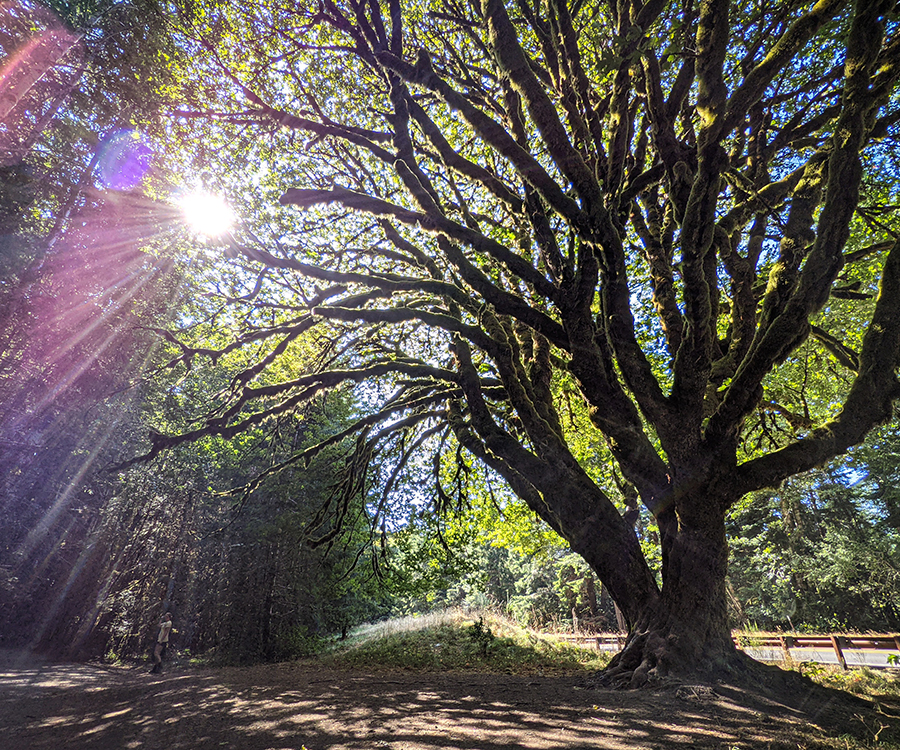
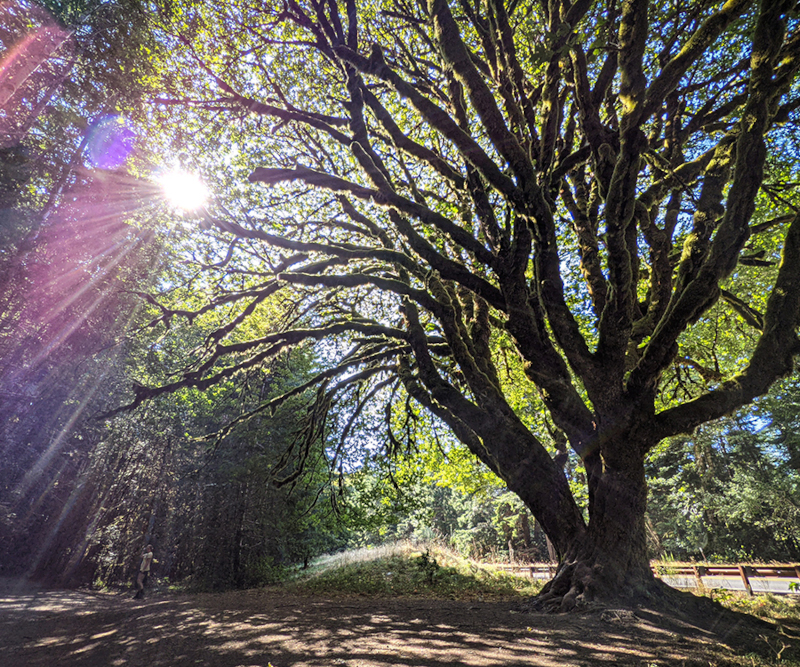
image optimization

Changed region(s): [[0.7188, 0.4498, 0.75, 0.4798]]

diff --git a/photography/index.html b/photography/index.html
@@ -37,7 +37,7 @@
             <div class="photos grid grid-cols-2 gap-2 lg:grid-cols-4">
 
                     <div class="photo action">
-                        <img src="/images/gallery/large/00.png" title="rappelling Stephen's Gap cave" class="small-img rounded-lg color-scroll transition duration-900 aspect-square object-cover">
+                        <img src="/images/gallery/small/00.png" title="rappelling Stephen's Gap cave" class="small-img rounded-lg color-scroll transition duration-900 aspect-square object-cover">
                         <div class="big-img fixed size-full left-0 top-0 z-40 backdrop-blur-sm hidden">
                             <div class="mt-28 px-4">
                                 <img src="/images/gallery/large/00.png" title="rappelling Stephen's Gap cave - large resolution" class="shadow-lg border-4 border-solid max-h-130 mx-auto">
@@ -47,7 +47,7 @@
                     </div>
 
                     <div class="photo wildlife">
-                        <img src="/images/gallery/large/02.jpg" title="A captive coati in Panama" class="small-img rounded-lg color-scroll transition duration-900 aspect-square object-cover">
+                        <img src="/images/gallery/small/02.jpg" title="A captive coati in Panama" class="small-img rounded-lg color-scroll transition duration-900 aspect-square object-cover">
                         <div class="big-img fixed size-full left-0 top-0 z-40 -ml-4 backdrop-blur-sm hidden">
                             <div class="mt-28 px-4">
                                 <img src="/images/gallery/large/02.jpg" title="A captive coati in Panama - large resolution" class="shadow-lg border-4 border-solid max-h-130 mx-auto">
@@ -57,7 +57,7 @@
                     </div>
 
                     <div class="photo landscape">
-                        <img src="/images/gallery/large/01.jpg" title="Flowers on Acatenango with volcan fuego in the background" class="small-img rounded-lg color-scroll transition duration-900 aspect-square object-cover">
+                        <img src="/images/gallery/small/01.jpg" title="Flowers on Acatenango with volcan fuego in the background" class="small-img rounded-lg color-scroll transition duration-900 aspect-square object-cover">
                         <div class="big-img fixed size-full left-0 top-0 z-40 -ml-4 backdrop-blur-sm hidden">
                             <div class="mt-28 px-4">
                                 <img src="/images/gallery/large/01.jpg" title="Flowers on Acatenango with volcan fuego in the background - large resolution" class="shadow-lg border-4 border-solid max-h-130 mx-auto">
@@ -67,7 +67,7 @@
                     </div>
 
                     <div class="photo landscape">
-                        <img src="/images/gallery/large/07.png" title="Storm clouds on the horizon from South Sixshooter, Utah" class="small-img rounded-lg color-scroll transition duration-900 aspect-square object-cover">
+                        <img src="/images/gallery/small/07.png" title="Storm clouds on the horizon from South Sixshooter, Utah" class="small-img rounded-lg color-scroll transition duration-900 aspect-square object-cover">
                         <div class="big-img fixed size-full left-0 top-0 z-40 -ml-4 backdrop-blur-sm hidden">
                             <div class="mt-28 px-4">
                                 <img src="/images/gallery/large/07.png" title="Storm clouds on the horizon from South Sixshooter, Utah" class="shadow-lg border-4 border-solid max-h-130 mx-auto">
@@ -77,7 +77,7 @@
                     </div>
                     
                     <div class="photo blackandwhite">
-                        <img src="/images/gallery/large/08.png" title="Intense shadows on a model's back" class="small-img rounded-lg color-scroll transition duration-900 aspect-square object-cover">
+                        <img src="/images/gallery/small/08.png" title="Intense shadows on a model's back" class="small-img rounded-lg color-scroll transition duration-900 aspect-square object-cover">
                         <div class="big-img fixed size-full left-0 top-0 z-40 -ml-4 backdrop-blur-sm hidden">
                             <div class="mt-28 px-4">
                                 <img src="/images/gallery/large/08.png" title="Intense shadows on a model's back" class="shadow-lg border-4 border-solid max-h-130 mx-auto">
@@ -87,7 +87,7 @@
                     </div>
 
                     <div class="photo action">
-                        <img src="/images/gallery/large/09.png" title="Aerialist in a wrap on a windy day" class="small-img rounded-lg color-scroll transition duration-900 aspect-square object-cover">
+                        <img src="/images/gallery/small/09.png" title="Aerialist in a wrap on a windy day" class="small-img rounded-lg color-scroll transition duration-900 aspect-square object-cover">
                         <div class="big-img fixed size-full left-0 top-0 z-40 -ml-4 backdrop-blur-sm hidden">
                             <div class="mt-28 px-4">
                                 <img src="/images/gallery/large/09.png" title="Aerialist in a wrap on a windy day" class="shadow-lg border-4 border-solid max-h-130 mx-auto">
@@ -97,7 +97,7 @@
                     </div>
 
                     <div class="photo color">
-                        <img src="/images/gallery/large/10.png" title="Danbo peering out at the world" class="small-img rounded-lg color-scroll transition duration-900 aspect-square object-cover">
+                        <img src="/images/gallery/small/10.png" title="Danbo peering out at the world" class="small-img rounded-lg color-scroll transition duration-900 aspect-square object-cover">
                         <div class="big-img fixed size-full left-0 top-0 z-40 -ml-4 backdrop-blur-sm hidden">
                             <div class="mt-28 px-4">
                                 <img src="/images/gallery/large/10.png" title="Danbo peering out at the world" class="shadow-lg border-4 border-solid max-h-130 mx-auto">
@@ -107,7 +107,7 @@
                     </div>
 
                     <div class="photo action">
-                        <img src="/images/gallery/large/28.jpg" title="A cave in West Virginia" class="small-img rounded-lg color-scroll transition duration-900 aspect-square object-cover">
+                        <img src="/images/gallery/small/28.jpg" title="A cave in West Virginia" class="small-img rounded-lg color-scroll transition duration-900 aspect-square object-cover">
                         <div class="big-img fixed size-full left-0 top-0 z-40 -ml-4 backdrop-blur-sm hidden">
                             <div class="mt-28 px-4">
                                 <img src="/images/gallery/large/28.jpg" title="A cave in West Virginia" class="shadow-lg border-4 border-solid max-h-130 mx-auto">
@@ -119,7 +119,7 @@
 
 
                     <div class="photo landscape">
-                        <img src="/images/gallery/large/03.png" title="The view down the valley from the top of 13-bolt wall, Colorado" class="small-img rounded-lg color-scroll transition duration-900 aspect-square object-cover">
+                        <img src="/images/gallery/small/03.png" title="The view down the valley from the top of 13-bolt wall, Colorado" class="small-img rounded-lg color-scroll transition duration-900 aspect-square object-cover">
                         <div class="big-img fixed size-full left-0 top-0 z-40 -ml-4 backdrop-blur-sm hidden">
                             <div class="mt-28 px-4">
                                 <img src="/images/gallery/large/03.png" title="The view down the valley from the top of 13-bolt wall, Colorado" class="shadow-lg border-4 border-solid max-h-130 mx-auto">
@@ -129,7 +129,7 @@
                     </div>
 
                     <div class="photo landscape">
-                        <img src="/images/gallery/large/04.jpg" title="Sunset view from the top of the Pao de Acucar, Rio de Janeiro, Brazil" class="small-img rounded-lg color-scroll transition duration-900 aspect-square object-cover">
+                        <img src="/images/gallery/small/04.jpg" title="Sunset view from the top of the Pao de Acucar, Rio de Janeiro, Brazil" class="small-img rounded-lg color-scroll transition duration-900 aspect-square object-cover">
                         <div class="big-img fixed size-full left-0 top-0 z-40 -ml-4 backdrop-blur-sm hidden">
                             <div class="mt-28 px-4">
                                 <img src="/images/gallery/large/04.jpg" title="Sunset view from the top of the Pao de Acucar, Rio de Janeiro, Brazil" class="shadow-lg border-4 border-solid max-h-130 mx-auto">
@@ -139,7 +139,7 @@
                     </div>
 
                     <div class="photo landscape">
-                        <img src="/images/gallery/large/18.jpg" title="Waterfall in Washington" class="small-img rounded-lg color-scroll transition duration-900 aspect-square object-cover">
+                        <img src="/images/gallery/small/18.jpg" title="Waterfall in Washington" class="small-img rounded-lg color-scroll transition duration-900 aspect-square object-cover">
                         <div class="big-img fixed size-full left-0 top-0 z-40 -ml-4 backdrop-blur-sm hidden">
                             <div class="mt-28 px-4">
                                 <img src="/images/gallery/large/18.jpg" title="Waterfall in Washington" class="shadow-lg border-4 border-solid max-h-130 mx-auto">
@@ -149,7 +149,7 @@
                     </div>
 
                     <div class="photo landscape">
-                        <img src="/images/gallery/large/05.jpg" title="Shagg lake, Maine" class="small-img rounded-lg color-scroll transition duration-900 aspect-square object-cover">
+                        <img src="/images/gallery/small/05.jpg" title="Shagg lake, Maine" class="small-img rounded-lg color-scroll transition duration-900 aspect-square object-cover">
                         <div class="big-img fixed size-full left-0 top-0 z-40 -ml-4 backdrop-blur-sm hidden">
                             <div class="mt-28 px-4">
                                 <img src="/images/gallery/large/05.jpg" title="Shagg lake, Maine" class="shadow-lg border-4 border-solid max-h-130 mx-auto">
@@ -159,7 +159,7 @@
                     </div>
 
                     <div class="photo landscape">
-                        <img src="/images/gallery/large/17.jpg" title="Looking South on the way up Atigun Pass, Alaska" class="small-img rounded-lg color-scroll transition duration-900 aspect-square object-cover">
+                        <img src="/images/gallery/small/17.jpg" title="Looking South on the way up Atigun Pass, Alaska" class="small-img rounded-lg color-scroll transition duration-900 aspect-square object-cover">
                         <div class="big-img fixed size-full left-0 top-0 z-40 -ml-4 backdrop-blur-sm hidden">
                             <div class="mt-28 px-4">
                                 <img src="/images/gallery/large/17.jpg" title="Looking South on the way up Atigun Pass, Alaska" class="shadow-lg border-4 border-solid max-h-130 mx-auto">
@@ -169,7 +169,7 @@
                     </div>
 
                     <div class="photo color">
-                        <img src="/images/gallery/large/19.jpg" title="Giant tree in Washington" class="small-img rounded-lg color-scroll transition duration-900 aspect-square object-cover">
+                        <img src="/images/gallery/small/19.jpg" title="Giant tree in Washington" class="small-img rounded-lg color-scroll transition duration-900 aspect-square object-cover">
                         <div class="big-img fixed size-full left-0 top-0 z-40 -ml-4 backdrop-blur-sm hidden">
                             <div class="mt-28 px-4">
                                 <img src="/images/gallery/large/19.jpg" title="Giant tree in Washington" class="shadow-lg border-4 border-solid max-h-130 mx-auto">
@@ -179,7 +179,7 @@
                     </div>
 
                     <div class="photo wildlife">
-                        <img src="/images/gallery/large/20.jpg" title="Jaguar in Belize" class="small-img rounded-lg color-scroll transition duration-900 aspect-square object-cover">
+                        <img src="/images/gallery/small/20.jpg" title="Jaguar in Belize" class="small-img rounded-lg color-scroll transition duration-900 aspect-square object-cover">
                         <div class="big-img fixed size-full left-0 top-0 z-40 -ml-4 backdrop-blur-sm hidden">
                             <div class="mt-28 px-4">
                                 <img src="/images/gallery/large/20.jpg" title="Jaguar in Belize" class="shadow-lg border-4 border-solid max-h-130 mx-auto">
@@ -191,7 +191,7 @@
 
 
                     <div class="photo color">
-                        <img src="/images/gallery/large/12.png" title="Mooshroom among moss looking towards a window" class="small-img rounded-lg color-scroll transition duration-900 aspect-square object-cover">
+                        <img src="/images/gallery/small/12.png" title="Mooshroom among moss looking towards a window" class="small-img rounded-lg color-scroll transition duration-900 aspect-square object-cover">
                         <div class="big-img fixed size-full left-0 top-0 z-40 -ml-4 backdrop-blur-sm hidden">
                             <div class="mt-28 px-4">
                                 <img src="/images/gallery/large/12.png" title="Mooshroom among moss looking towards a window" class="shadow-lg border-4 border-solid max-h-130 mx-auto">
@@ -201,7 +201,7 @@
                     </div>
 
                     <div class="photo color">
-                        <img src="/images/gallery/large/13.png" title="Three stones with reflection" class="small-img rounded-lg color-scroll transition duration-900 aspect-square object-cover">
+                        <img src="/images/gallery/small/13.png" title="Three stones with reflection" class="small-img rounded-lg color-scroll transition duration-900 aspect-square object-cover">
                         <div class="big-img fixed size-full left-0 top-0 z-40 -ml-4 backdrop-blur-sm hidden">
                             <div class="mt-28 px-4">
                                 <img src="/images/gallery/large/13.png" title="Three stones with reflection" class="shadow-lg border-4 border-solid max-h-130 mx-auto">
@@ -211,7 +211,7 @@
                     </div>
 
                     <div class="photo blackandwhite">
-                        <img src="/images/gallery/large/11.png" title="Japanese tea house at Duke Gardens, North Carolina" class="small-img rounded-lg color-scroll transition duration-900 aspect-square object-cover">
+                        <img src="/images/gallery/small/11.png" title="Japanese tea house at Duke Gardens, North Carolina" class="small-img rounded-lg color-scroll transition duration-900 aspect-square object-cover">
                         <div class="big-img fixed size-full left-0 top-0 z-40 -ml-4 backdrop-blur-sm hidden">
                             <div class="mt-28 px-4">
                                 <img src="/images/gallery/large/11.png" title="Japanese tea house at Duke Gardens, North Carolina" class="shadow-lg border-4 border-solid max-h-130 mx-auto">
@@ -221,7 +221,7 @@
                     </div>
 
                     <div class="photo color">
-                        <img src="/images/gallery/large/14.png" title="Durham central bus station with tiltshift" class="small-img rounded-lg color-scroll transition duration-900 aspect-square object-cover">
+                        <img src="/images/gallery/small/14.png" title="Durham central bus station with tiltshift" class="small-img rounded-lg color-scroll transition duration-900 aspect-square object-cover">
                         <div class="big-img fixed size-full left-0 top-0 z-40 -ml-4 backdrop-blur-sm hidden">
                             <div class="mt-28 px-4">
                                 <img src="/images/gallery/large/14.png" title="Durham central bus station with tiltshift" class="shadow-lg border-4 border-solid max-h-130 mx-auto">
@@ -231,7 +231,7 @@
                     </div>
 
                     <div class="photo landscape">
-                        <img src="/images/gallery/large/15.png" title="Teer quarry at sunrise" class="small-img rounded-lg color-scroll transition duration-900 aspect-square object-cover">
+                        <img src="/images/gallery/small/15.png" title="Teer quarry at sunrise" class="small-img rounded-lg color-scroll transition duration-900 aspect-square object-cover">
                         <div class="big-img fixed size-full left-0 top-0 z-40 -ml-4 backdrop-blur-sm hidden">
                             <div class="mt-28 px-4">
                                 <img src="/images/gallery/large/15.png" title="Teer quarry at sunrise" class="shadow-lg border-4 border-solid max-h-130 mx-auto">
@@ -241,7 +241,7 @@
                     </div>
 
                     <div class="photo color">
-                        <img src="/images/gallery/large/16.jpg" title="Appropriately placed Milk graffiti" class="small-img rounded-lg color-scroll transition duration-900 aspect-square object-cover">
+                        <img src="/images/gallery/small/16.jpg" title="Appropriately placed Milk graffiti" class="small-img rounded-lg color-scroll transition duration-900 aspect-square object-cover">
                         <div class="big-img fixed size-full left-0 top-0 z-40 -ml-4 backdrop-blur-sm hidden">
                             <div class="mt-28 px-4">
                                 <img src="/images/gallery/large/16.jpg" title="Appropriately placed Milk graffiti" class="shadow-lg border-4 border-solid max-h-130 mx-auto">
@@ -251,7 +251,7 @@
                     </div>
 
                     <div class="photo wildlife">
-                        <img src="/images/gallery/large/27.jpg" title="Relaxing in the Norwegian wilderness" class="small-img rounded-lg color-scroll transition duration-900 aspect-square object-cover">
+                        <img src="/images/gallery/small/27.jpg" title="Relaxing in the Norwegian wilderness" class="small-img rounded-lg color-scroll transition duration-900 aspect-square object-cover">
                         <div class="big-img fixed size-full left-0 top-0 z-40 -ml-4 backdrop-blur-sm hidden">
                             <div class="mt-28 px-4">
                                 <img src="/images/gallery/large/27.jpg" title="Relaxing in the Norwegian wilderness" class="shadow-lg border-4 border-solid max-h-130 mx-auto">
@@ -263,7 +263,7 @@
 
 
                     <div class="photo action">
-                        <img src="/images/gallery/large/21.jpg" title="An eruption on Volcan Fuego" class="small-img rounded-lg color-scroll transition duration-900 aspect-square object-cover">
+                        <img src="/images/gallery/small/21.jpg" title="An eruption on Volcan Fuego" class="small-img rounded-lg color-scroll transition duration-900 aspect-square object-cover">
                         <div class="big-img fixed size-full left-0 top-0 z-40 -ml-4 backdrop-blur-sm hidden">
                             <div class="mt-28 px-4">
                                 <img src="/images/gallery/large/21.jpg" title="An erption on Volcan Fuego" class="shadow-lg border-4 border-solid max-h-130 mx-auto">
@@ -273,7 +273,7 @@
                     </div>
 
                     <div class="photo color">
-                        <img src="/images/gallery/large/22.jpg" title="Waterfall in Cloudbridge Reserve, Costa Rica" class="small-img rounded-lg color-scroll transition duration-900 aspect-square object-cover">
+                        <img src="/images/gallery/small/22.jpg" title="Waterfall in Cloudbridge Reserve, Costa Rica" class="small-img rounded-lg color-scroll transition duration-900 aspect-square object-cover">
                         <div class="big-img fixed size-full left-0 top-0 z-40 -ml-4 backdrop-blur-sm hidden">
                             <div class="mt-28 px-4">
                                 <img src="/images/gallery/large/22.jpg" title="Waterfall in Cloudbridge Reserve, Costa Rica" class="shadow-lg border-4 border-solid max-h-130 mx-auto">
@@ -283,7 +283,7 @@
                     </div>
 
                     <div class="photo action">
-                        <img src="/images/gallery/large/23.jpg" title="A swing in the jungle in Panama" class="small-img rounded-lg color-scroll transition duration-900 aspect-square object-cover">
+                        <img src="/images/gallery/small/23.jpg" title="A swing in the jungle in Panama" class="small-img rounded-lg color-scroll transition duration-900 aspect-square object-cover">
                         <div class="big-img fixed size-full left-0 top-0 z-40 -ml-4 backdrop-blur-sm hidden">
                             <div class="mt-28 px-4">
                                 <img src="/images/gallery/large/23.jpg" title="A swing in the jungle in Panama" class="shadow-lg border-4 border-solid max-h-130 mx-auto">
@@ -293,7 +293,7 @@
                     </div>
 
                     <div class="photo color">
-                        <img src="/images/gallery/large/24.jpg" title="A basic hotel on an island village on the coast of Panama, San Blas Islands" class="small-img rounded-lg color-scroll transition duration-900 aspect-square object-cover">
+                        <img src="/images/gallery/small/24.jpg" title="A basic hotel on an island village on the coast of Panama, San Blas Islands" class="small-img rounded-lg color-scroll transition duration-900 aspect-square object-cover">
                         <div class="big-img fixed size-full left-0 top-0 z-40 -ml-4 backdrop-blur-sm hidden">
                             <div class="mt-28 px-4">
                                 <img src="/images/gallery/large/24.jpg" title="A basic hotel on an island village on the coast of Panama, San Blas Islands" class="shadow-lg border-4 border-solid max-h-130 mx-auto">
@@ -303,7 +303,7 @@
                     </div>
 
                     <div class="photo landscape">
-                        <img src="/images/gallery/large/25.jpg" title="Rocky beach in northern Colombia, near the Darien Gap" class="small-img rounded-lg color-scroll transition duration-900 aspect-square object-cover">
+                        <img src="/images/gallery/small/25.jpg" title="Rocky beach in northern Colombia, near the Darien Gap" class="small-img rounded-lg color-scroll transition duration-900 aspect-square object-cover">
                         <div class="big-img fixed size-full left-0 top-0 z-40 -ml-4 backdrop-blur-sm hidden">
                             <div class="mt-28 px-4">
                                 <img src="/images/gallery/large/25.jpg" title="Rocky beach in northern Colombia, near the Darien Gap" class="shadow-lg border-4 border-solid max-h-130 mx-auto">
@@ -313,7 +313,7 @@
                     </div>
 
                     <div class="photo landscape">
-                        <img src="/images/gallery/large/26.jpg" title="Climbing above the clouds on Corcovado, Rio de Janeiro, Brazil" class="small-img rounded-lg color-scroll transition duration-900 aspect-square object-cover">
+                        <img src="/images/gallery/small/26.jpg" title="Climbing above the clouds on Corcovado, Rio de Janeiro, Brazil" class="small-img rounded-lg color-scroll transition duration-900 aspect-square object-cover">
                         <div class="big-img fixed size-full left-0 top-0 z-40 -ml-4 backdrop-blur-sm hidden">
                             <div class="mt-28 px-4">
                                 <img src="/images/gallery/large/26.jpg" title="Climbing above the clouds on Corcovado, Rio de Janeiro, Brazil" class="shadow-lg border-4 border-solid max-h-130 mx-auto">
@@ -323,7 +323,7 @@
                     </div>
 
                     <div class="photo landscape">
-                        <img src="/images/gallery/large/29.jpg" title="A climber rappelling into The Underworld, Linville Gorge, North Carolina" class="small-img rounded-lg color-scroll transition duration-900 aspect-square object-cover">
+                        <img src="/images/gallery/small/29.jpg" title="A climber rappelling into The Underworld, Linville Gorge, North Carolina" class="small-img rounded-lg color-scroll transition duration-900 aspect-square object-cover">
                         <div class="big-img fixed size-full left-0 top-0 z-40 -ml-4 backdrop-blur-sm hidden">
                             <div class="mt-28 px-4">
                                 <img src="/images/gallery/large/29.jpg" title="A climber rappelling into The Underworld, Linville Gorge, North Carolina" class="shadow-lg border-4 border-solid max-h-130 mx-auto">

diff --git a/get-updates/index.html b/get-updates/index.html
@@ -76,7 +76,7 @@
                 </div>
                 
                 <div class="px-8 w-1/2 hidden lg:block lg:flex lg:justify-center">
-                    <img src="/images/misc-pages/belize-jaguar-landscape1.jpg" class="rounded-3xl object-cover hidden lg:block object-right">
+                    <img src="/images/misc-pages/belize-jaguar-landscape.jpg" class="rounded-3xl object-cover hidden lg:block object-right">
                 </div>
 
             </div>
